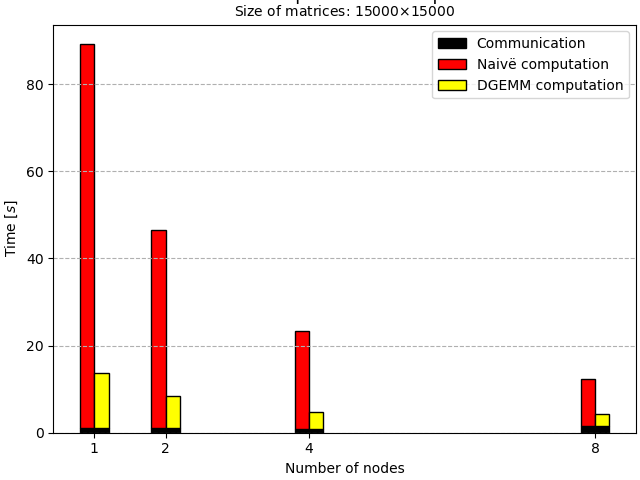
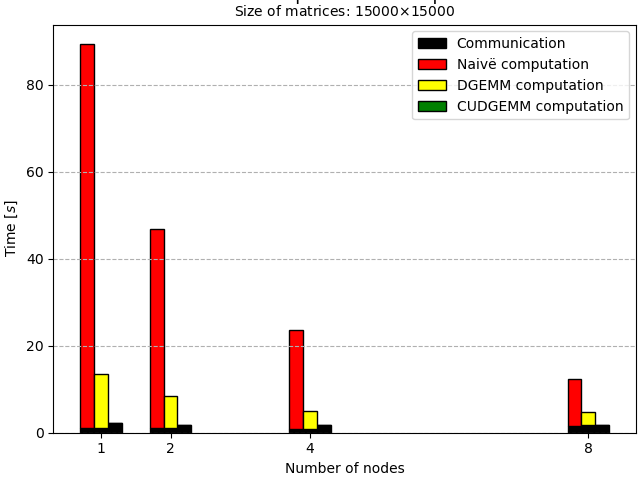
plots

diff --git a/analysis/bar_plot.py b/analysis/bar_plot.py
@@ -1,51 +1,66 @@
 from matplotlib.pyplot import savefig, subplots, show, title, suptitle
 from numpy import array, zeros, arange
 
+nodes_number = 4
+
 def num(s):
     try:
         return int(s)
     except ValueError:
         return float(s)
-        
-with open('data/times.txt') as f:
-    data = [[num(x) for x in line.split()[1:]] for line in f.readlines()]
 
-nodes = 4
-sections = [2 * n + 1 for n in range(19)]
+lines = 0    
+section_witdh = nodes_number * 3
+data = []
 
-for section in sections:
-	naive = data[nodes * (section - 1):nodes * section]
-	dgemm = data[nodes * section:nodes * (section + 1)]
-	processors = array([n for _, n, *_ in naive]) // 32
-	naive_comm = array([t for *_, t, _ in naive])
-	naive_comp = array([t for *_, t in naive])
-	dgemm_comm = array([t for *_, t, _ in dgemm])
-	dgemm_comp = array([t for *_, t in dgemm])
+with open('data/times.txt') as file:	
+	for line in file.readlines():
+		data += [[num(x) for x in line.split()[1:]]]
+		lines += 1
+
+sections = lines // section_witdh
+
+for s in range(sections):
+	naive = data[s * section_witdh : nodes_number + s * section_witdh]
+	dgemm = data[nodes_number + s * section_witdh : 2 * nodes_number + s * section_witdh]
+	cudgemm = data[2 * nodes_number + s * section_witdh : 3 * nodes_number + s * section_witdh]
 	n = naive[0][0]
+	print(n)
+	#print(cudgemm)
+	versions = (naive, dgemm, cudgemm)
+	communication = [array([t for *_, t, _ in version]) for version in versions]
+	computation = [array([t for *_, t in version]) for version in versions]
 
-	measures = ((naive_comm, naive_comp), (dgemm_comm, dgemm_comp))
+	measures = (communication, computation)
+	nodes = array([2 ** i for i in range(nodes_number)])
 
 	fig, ax = subplots(layout='constrained')
-	bottom = zeros(nodes)
+	bottom = zeros(nodes_number)
 	width = 0.2
 	multiplier = 0
 	i = 0
-	bar_colors = ('black', 'red',  'black', 'yellow')
-	label = ("Communication", "Naivë computation", None, "DGEMM computation")
+	bar_colors = ('black', 'black', 'black', 'red', 'yellow', 'green')
+	label = ("Communication", None, None, "Naivë computation", "DGEMM computation", "CUDGEMM computation")
 
-	for times in measures:
-		  offset = width * multiplier - width / 2
+	#print(measures)
+	for measure_type in measures:
+	  
+		for times in measure_type:
+			if i > 2:
+				bottom = measures[0][i - 3]
 		  
-		  for time in times:
-		      p = ax.bar(processors + offset, time, width, label = label[i], bottom = bottom, \
-		                 color = bar_colors[i], edgecolor = 'black')
-		      bottom += times[0] 
-		      i += 1
+			offset = width * multiplier - width
 
-		  multiplier += 1
-		  bottom = zeros(nodes)
+			p = ax.bar(nodes + offset, times, width, label = label[i], bottom = bottom, \
+						     color = bar_colors[i], edgecolor = 'black')
+						     
+			i += 1
+			multiplier += 1
+		
+		multiplier = 0
+		bottom = zeros(nodes_number)
 
-	ax.set_xticks(processors)
+	ax.set_xticks(nodes)
 	ax.set_ylabel(r"Time [$s$]")
 	ax.set_xlabel("Number of nodes")
 	ax.legend(loc = "upper right")
